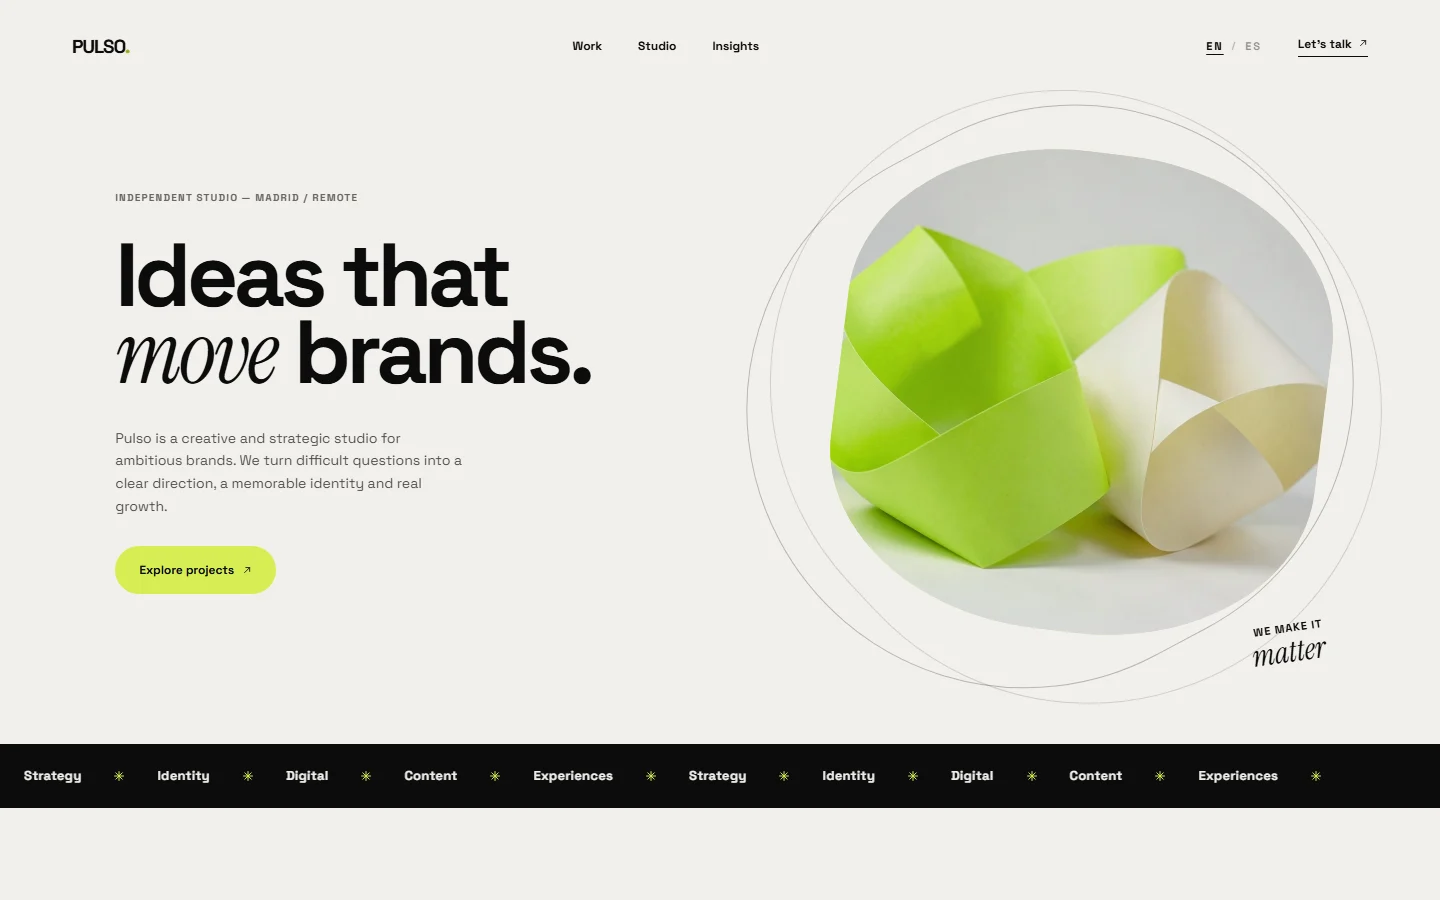
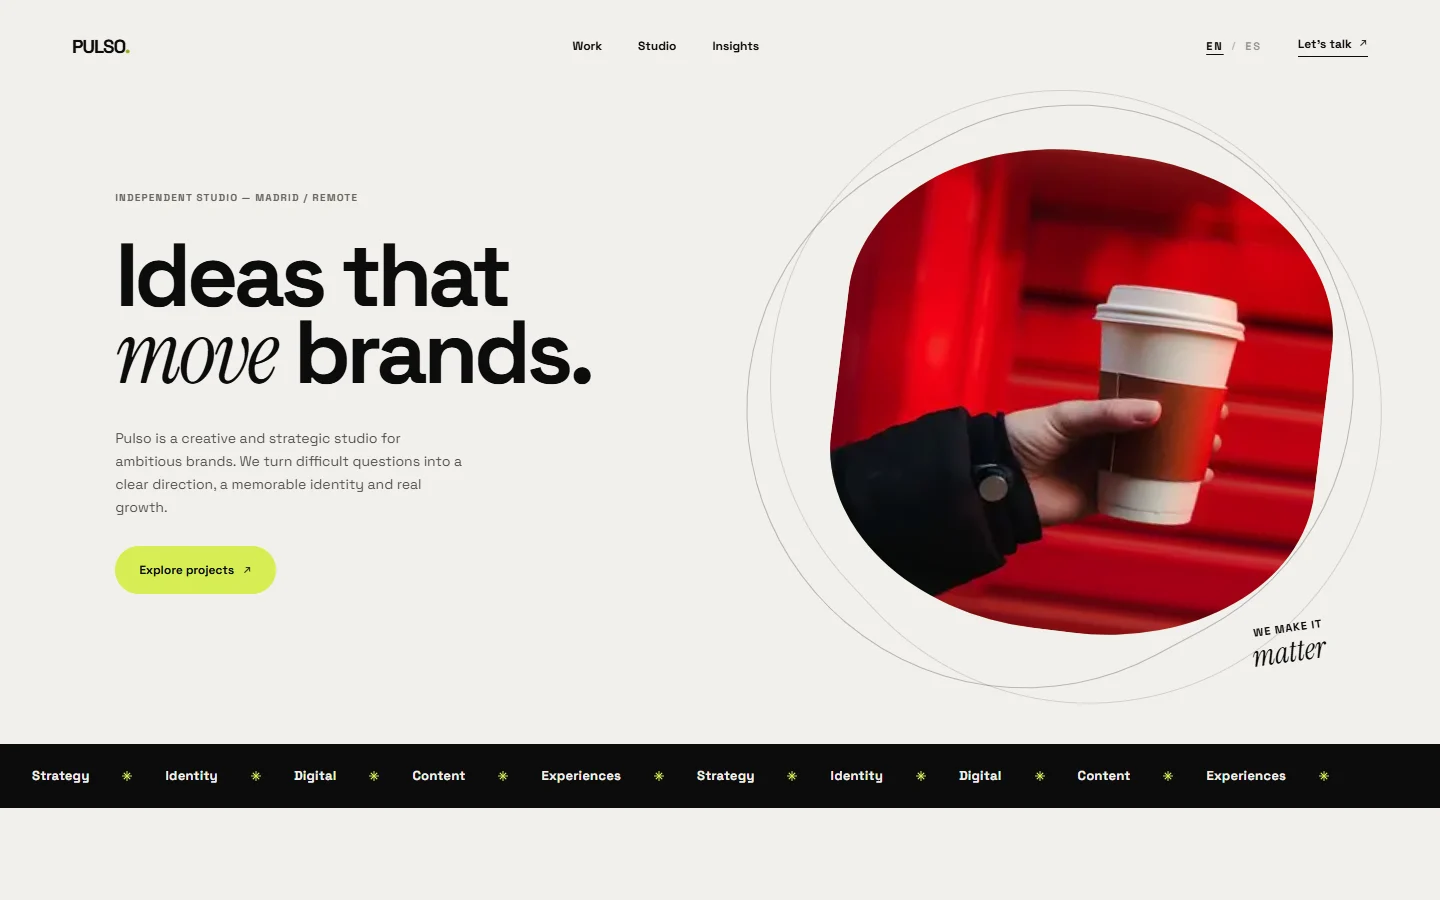
fix: reframe hero image crop and refresh preview screenshot

diff --git a/src/components/hero.tsx b/src/components/hero.tsx
@@ -55,7 +55,7 @@ export function Hero({ content }: Readonly<{ content: Dictionary["hero"] }>) {
               fill
               priority
               sizes="(max-width: 1024px) 92vw, 46vw"
-              className="object-cover"
+              className="object-cover object-[25%_50%]"
             />
           </div>
 
